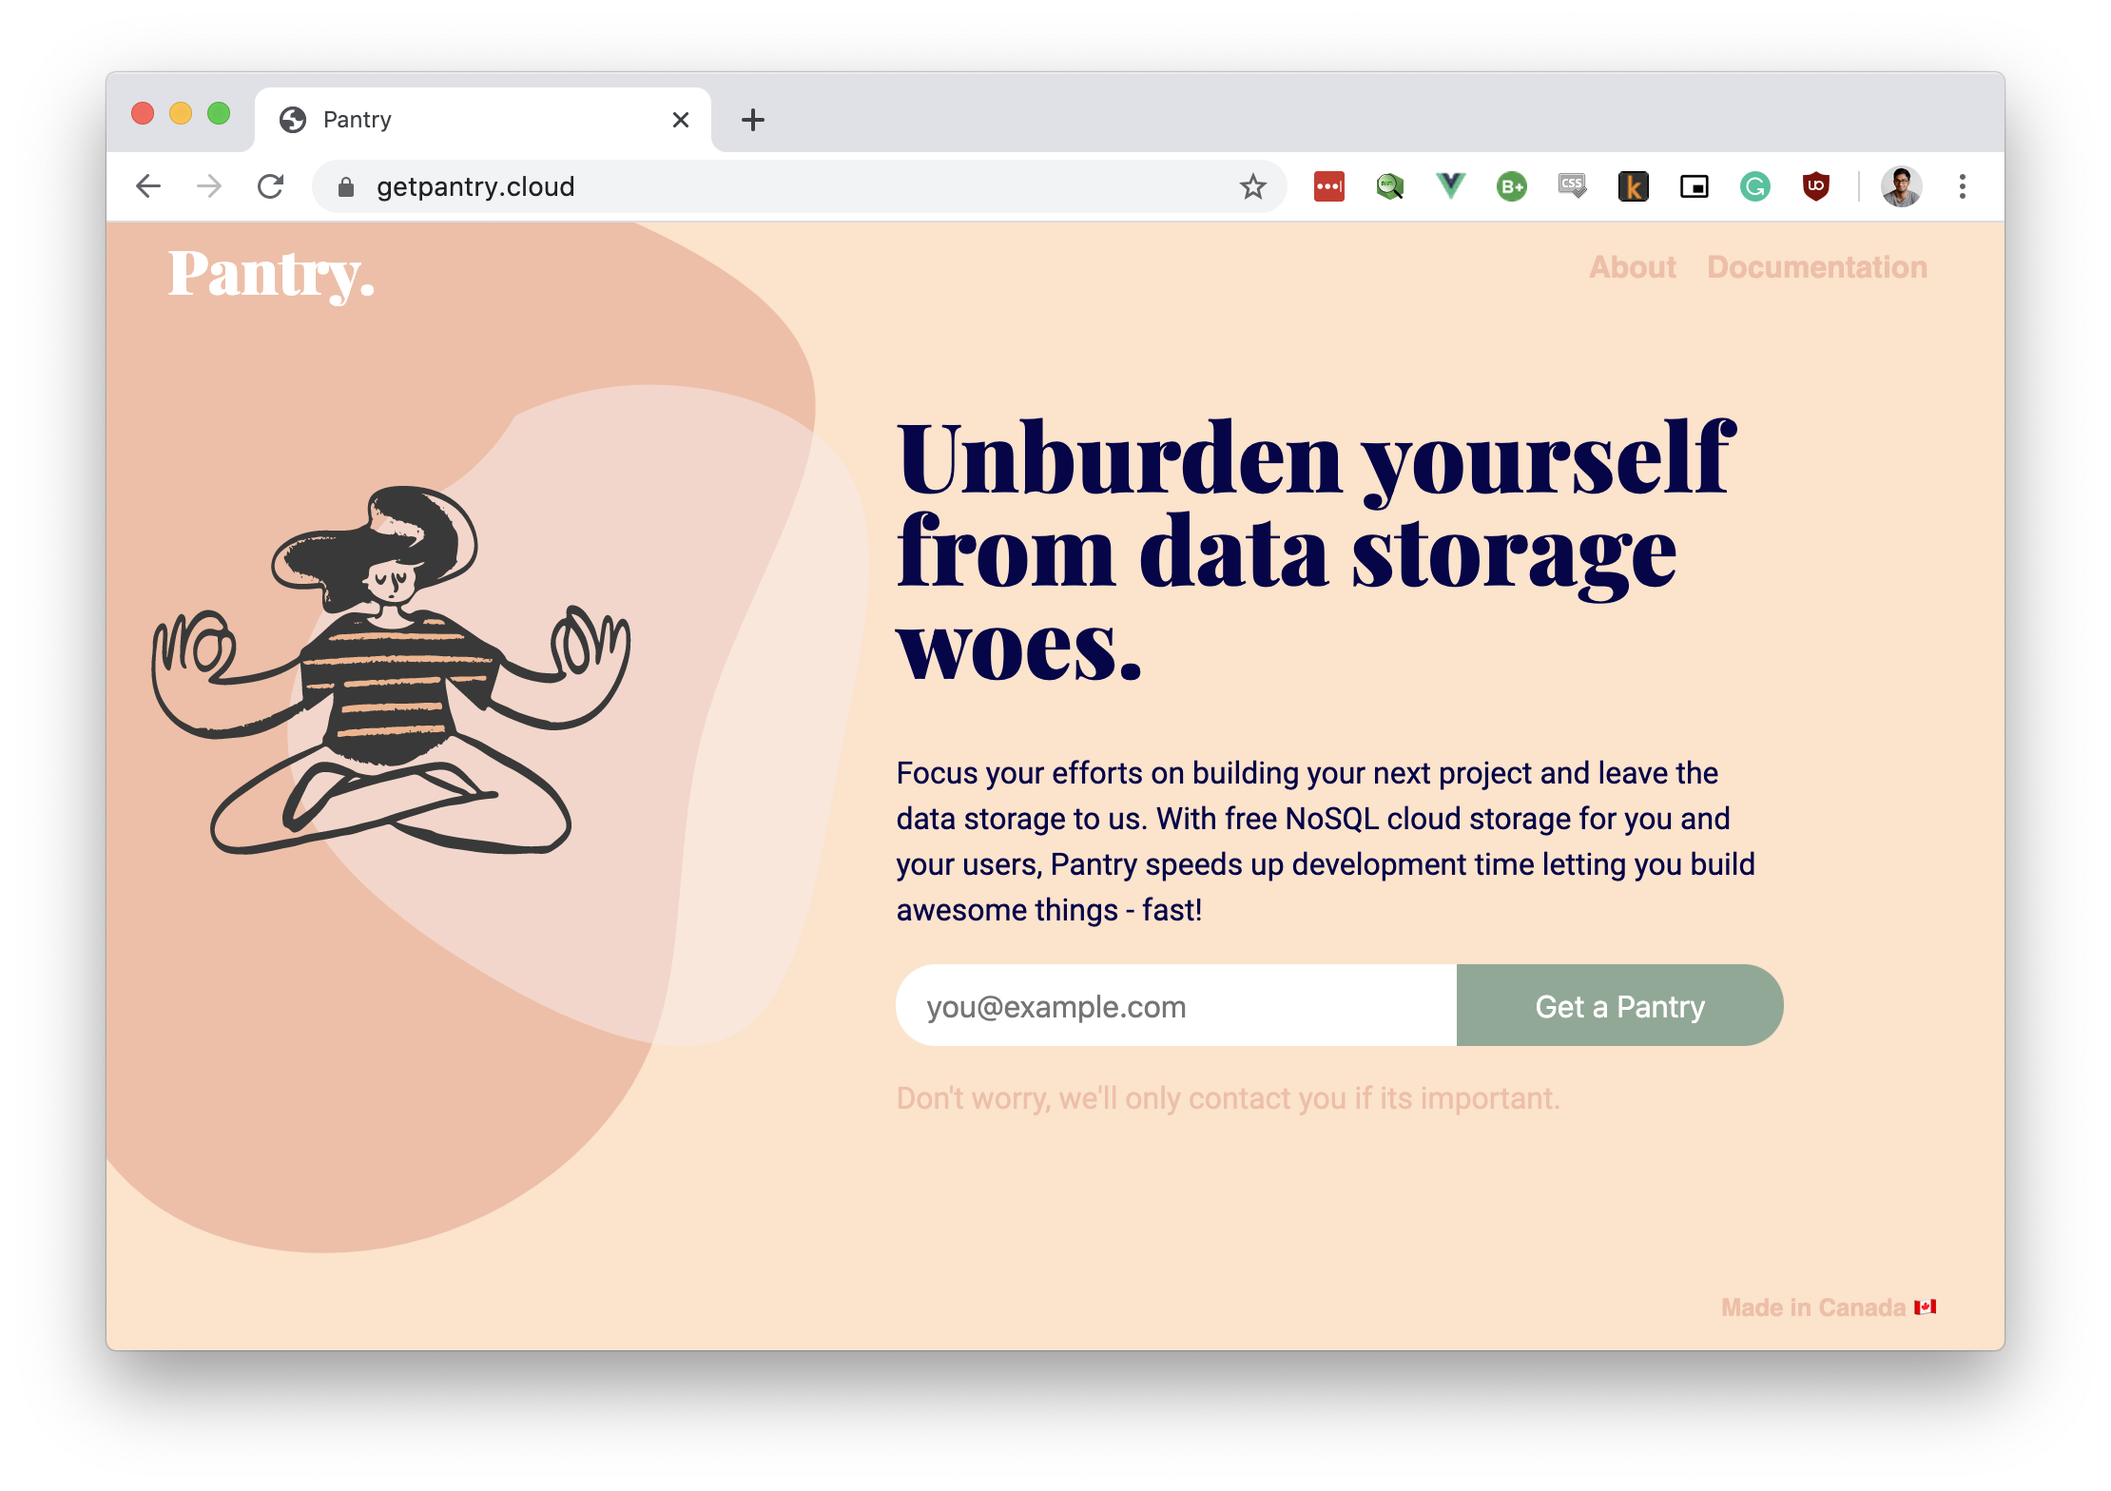
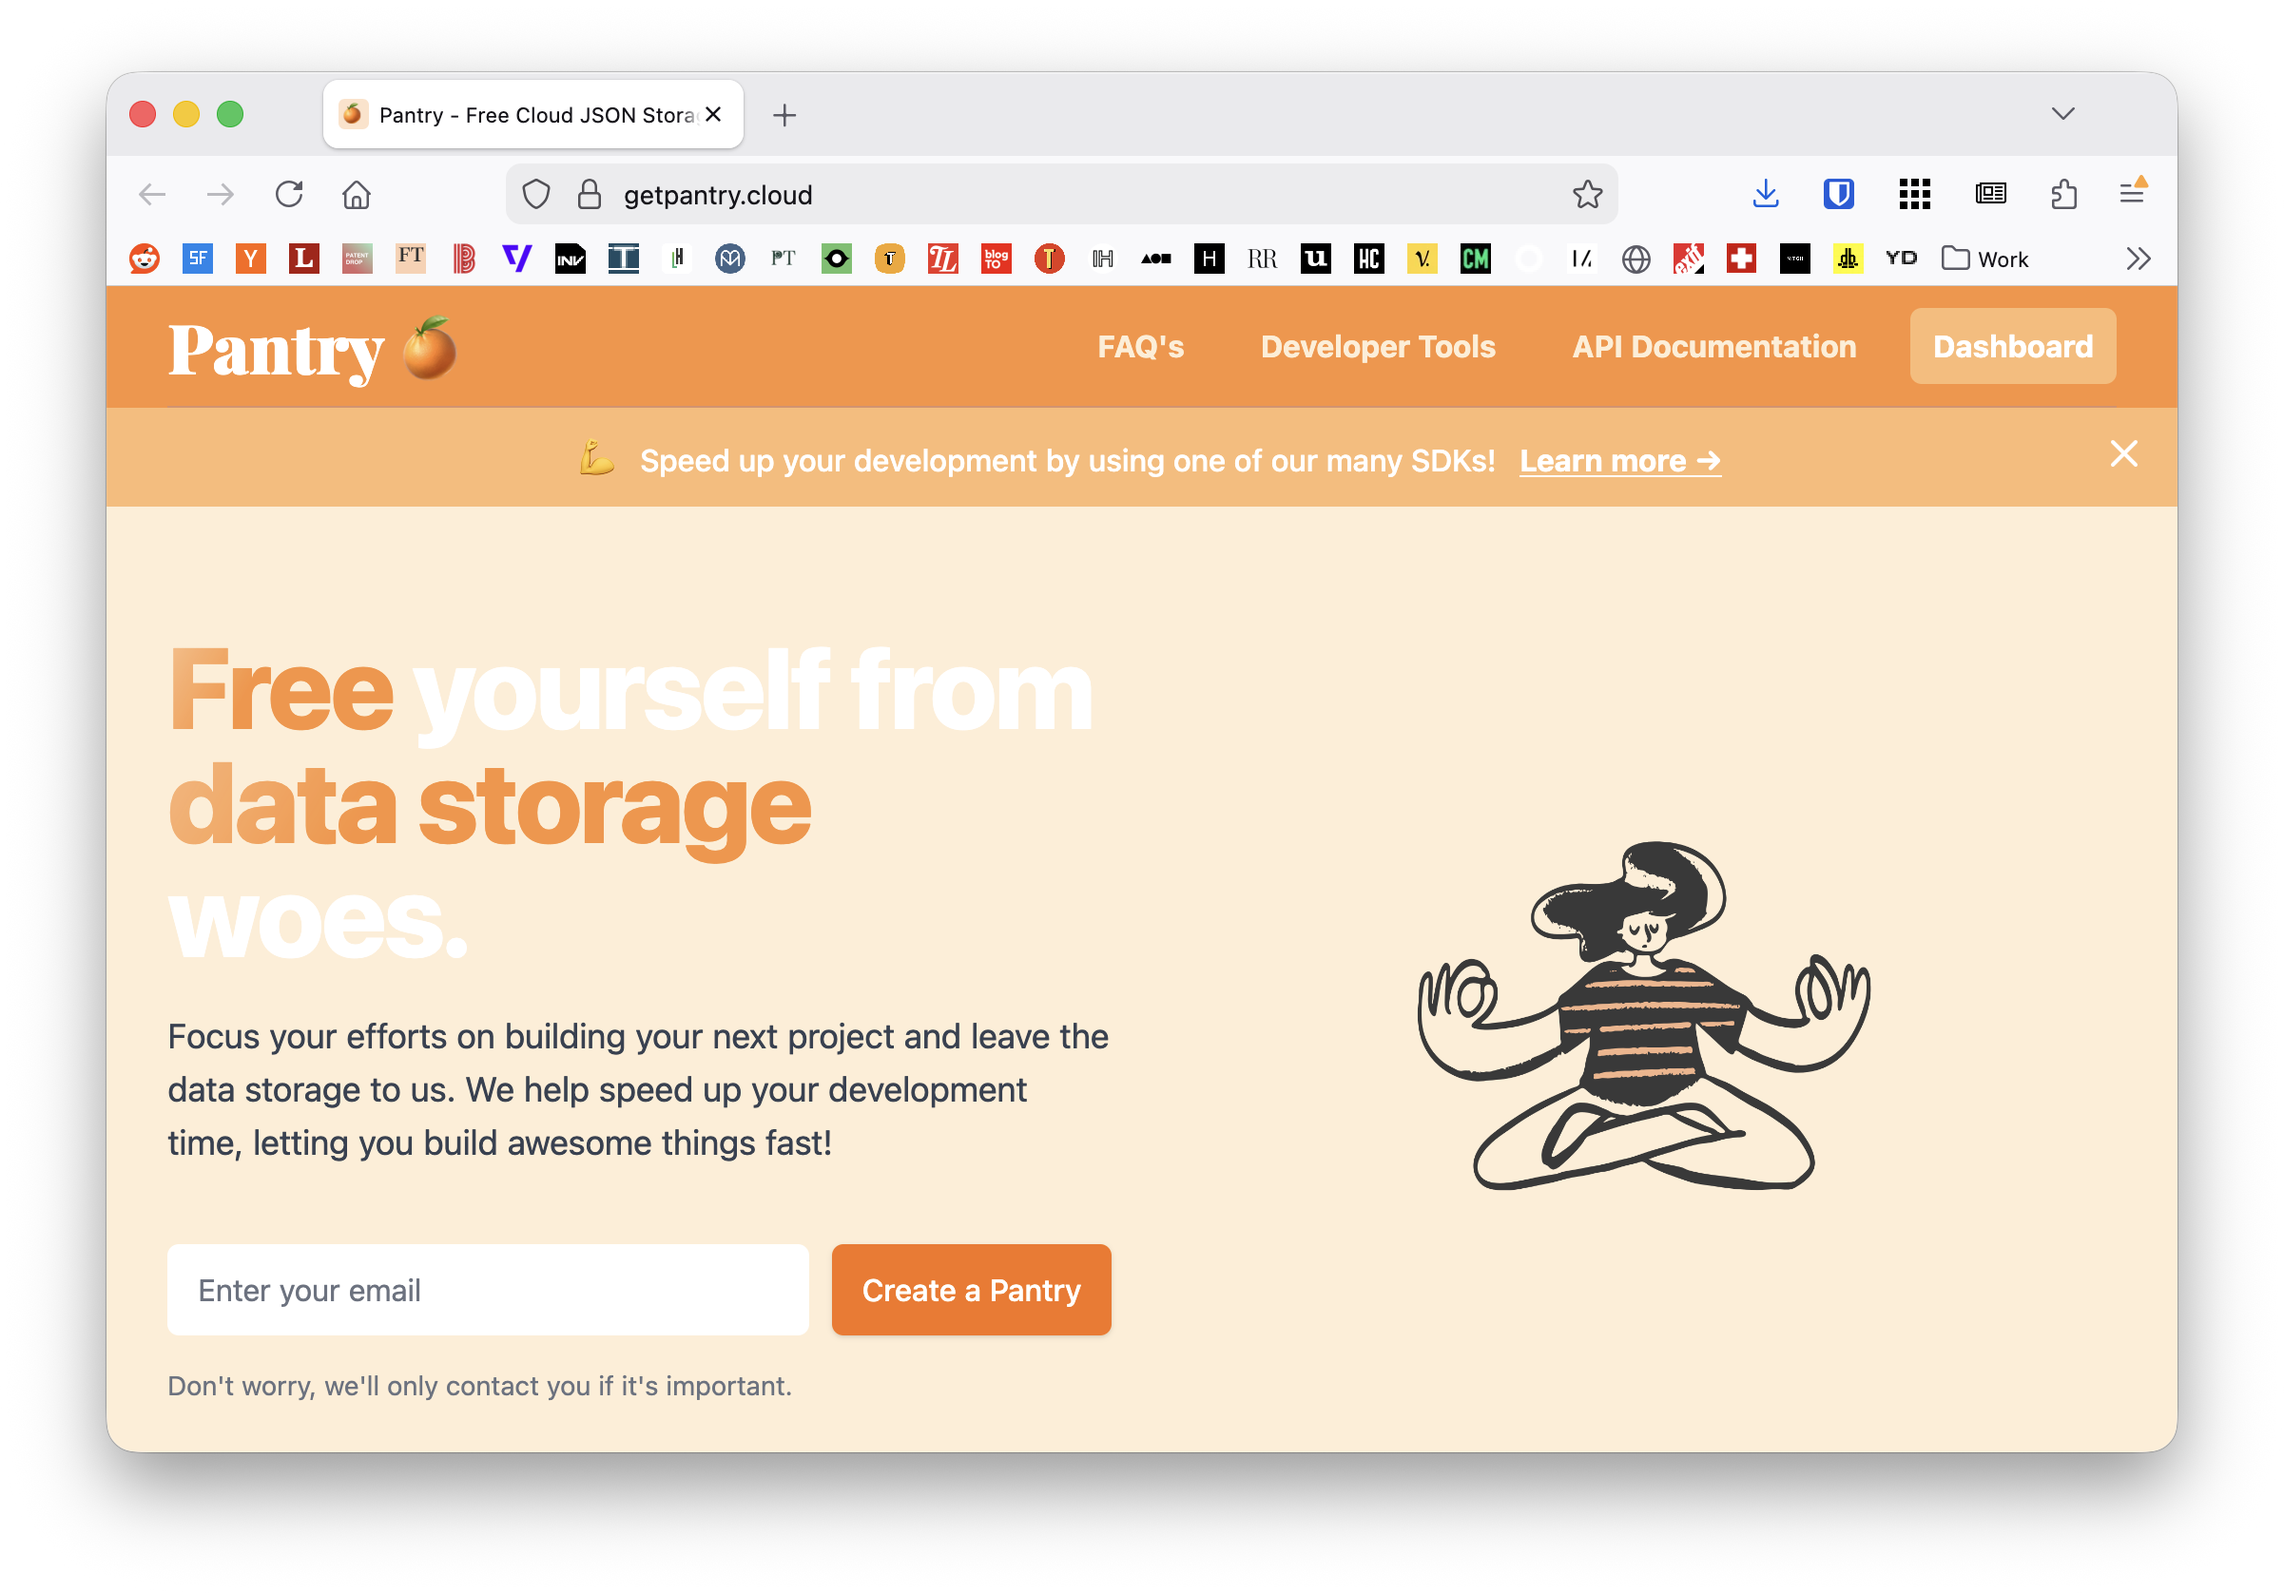
Updated contents

diff --git a/_layouts/default.html b/_layouts/default.html
@@ -28,17 +28,16 @@
     <div class="site">
         <div class="sidebar" id="sidebar">
 
-            <div class="header ">
+            <div class="header">
                 <div class="logoBlocks">
-                    <a href="/">
-                        <div class="hvr-buzz-out">
-                            <div id="logoimage">
-                              <img id="logo" src="/images/logo.png">
-                            </div>
-                        </div>
-                    </a>
+                  <a href="/">
+                    <div id="logoimage">
+                      <img id="logo" src="/images/logo.svg">
+                    </div>
+                  </a>
                 </div>
-                <span class="tagline">Hi, I'm Rohan. <br/>I  am a product focused, software engineer from Toronto.</span>
+                <span class="tagline">Hi, I'm Rohan, <br/>a product-focused
+                  software engineer from Toronto, Canada.</span>
                 <button onclick="javascript:openDialog();" class="btn btn-4">About Me</button>
             </div>
             <div class="footer">
@@ -50,11 +49,6 @@
                   <a target="_blank" href="https://github.com/imRohan" class="footer-link hvr-underline-reveal">
                     <i class="fa fa-github-alt"></i> GitHub
                   </a>
-                  <span class="separator">&bull;</span>
-                  <a target="_blank" href="https://dribbble.com/imRohan" class="footer-link hvr-underline-reveal">
-                    <i class="fa fa-dribbble"></i> Dribbble
-                  </a>
-                </span>
             </div>
             <div class="posts">
                 <ul class="posts-list">
@@ -76,88 +70,70 @@
     <!-- MODAL -->
     <div id="termWindow">
         <div id="rohan-about" class="avgrund-popup">
-            <div id="termHeader" class="dragHandle">
-                <a onclick="javascript:closeDialog();">
-                    <div id="termIcons"></div>
-                </a>
-                <div id="termTitle">1. bash</div>
+            <div id="termHeader">
+              <a onclick="javascript:closeDialog();">
+                <div id="termIcons"></div>
+              </a>
+              <div id="termTitle">1. zsh</div>
             </div>
             <div id="termBody" class="custom-scroll">
-                <p class="termText">
-                    Last updated: Sun May 31 17:29:48 on ttys000
-                    <br/>Rohan-Likhites-MacBook-Pro:~ rohanlikhite$ cd Documents
-                    <br/>Rohan-Likhites-MacBook-Pro:Documents rohanlikhite$ cat myBio.txt
-                    <br/>
-                    <br/>About
+              <p class="termText">
+                Last updated: Sun May 31 17:29:48 on ttys000
+                <br/>Rohan-Likhites-MacBook-Pro:~ rohanlikhite$ cd Documents
+                <br/>Rohan-Likhites-MacBook-Pro:Documents rohanlikhite$ cat myBio.txt
+                <br/>
+                <br/>About
 
-                    <br/>-----/
-                    <br/>> I am a product focused, software engineer from Toronto, Canada.  I have experience designing, building and testing robust microservice enterprise applications for IoT platforms, desktop/mobile applications, and AR/VR experiences, all using modern tech-stacks. I enjoy modern art, Formula One, green tea and play tennis in my spare time. 
-                    <br/>
-                    <br/>Skills
-                    <br/>------/
-                    <br/>> JavaScript + Node, Typescript, Ruby + ROR, Rust, GoLang, GraphQL, RabbitMQ, SocketIo, VueJs, Webpack, Nightwatch, Rspec, Selenium, Capybara, Intern, Jenkins, HTML5, Slim, CSS3, SASS, Bootstrap/Foundation/Chocolate, Source Code Management (GIT + SVN), Bower, Yarn, NPM, Unity3D, Open Frameworks, Processing, MAX MSP, VPT7, Adobe Creative Suite, Autocad, Revit, Oculus Rift, META SpaceGlass.
-                    <br/>
-                    <br/>
-                </p>
-                <p class="termText left">
-                    Other Interests
-                    <br/>---------------/
-                    <br/>-Tennis
-                    <br/>-<a href="/posts/2015/02/12/books/">Reading</a>
-                    <br/>-Formula One
-                    <br/>-Architecture
-                    <br/>-<a href="/posts/2014/06/17/relax/">Music</a>
-                    <br/>-<a href="/posts/2021/03/17/food52/">Cooking</a>
-                </p>
-                <p class="termText right">
-                    Links
-                    <br/>-----/
-                    <br/>Email: <a href="mailto:rlikhite@gmail.com">rlikhite[at]gmail.com</a> 
-                    <br/>Github:
-                    <a target="_blank" href="https://github.com/imRohan">imRohan</a>
-                    <br/>Dribbble: <a target="_blank" href="https://dribbble.com/imRohan">imRohan</a>
-                    <br/>LinkedIn:
-                    <a target="_blank" href="https://www.linkedin.com/pub/rohan-likhite/a6/495/950">rohan-likhite</a> 
-                    <br/>Twitter: <a target="_blank" href="https://twitter.com/RohanLikhite">@rohanlikhite</a>
-                    <br/>Medium: <a target="_blank" href="https://medium.com/@RohanLikhite">@RohanLikhite</a>
-                </p>
-                <p class="termText newRow">
-
-                    <br/>>Press ESC to <a onclick="javascript:closeDialog();">close</a> window
-                    <br/>>Lovingly crafted by Rohan Likhite - 2014
-
-
-                </p>
-
-                <p class="termText linefix">
-                    <br/>Rohan-Likhites-MacBook-Pro:Documents rohanlikhite$
-                </p>
-                <div id="cursor"></div>
-
-            </div>
+                <br/>-----/
+                <br/>>I’m a product-focused software engineer based in
+                Toronto, dedicated to solving complex problems through
+                robust, scalable software. My experience ranges from developing
+                cutting-edge biometric access-control platforms to building
+                systems that deliver freshly cooked meals to families across
+                the country. A firm believer in giving back, I actively
+                contribute to various open-source initiatives. When I’m away
+                from my desk, I’m likely on the tennis court, keeping up
+                with Formula One, or enjoying time with my family.
+                <br/>
+                <br/>Skills
+                <br/>------/
+                <br/>> Languages: Ruby, Rust, Typescript/Javascript, GoLang
+                <br/>> Security: Biometric Auth, OAuth, JWT, OWASP
+                <br/>> Frameworks: Ruby on Rails, Node.js, Vue/React
+                <br/>
+                <br/>
+              </p>
+              <p class="termText left">
+                Other Interests
+                <br/>---------------/
+                <br/>-Tennis
+                <br/>-<a href="/posts/2015/02/12/books/">Reading</a>
+                <br/>-Formula One
+                <br/>-Architecture
+                <br/>-<a href="/posts/2014/06/17/relax/">Music</a>
+                <br/>-<a href="/posts/2021/03/17/food52/">Cooking</a>
+              </p>
+              <p class="termText right">
+                Links
+                <br/>-----/
+                <br/>Email: <a href="mailto:rlikhite@gmail.com">rlikhite[at]gmail.com</a> 
+                <br/>Github:
+                <a target="_blank" href="https://github.com/imRohan">imRohan</a>
+                <br/>LinkedIn:
+                <a target="_blank" href="https://www.linkedin.com/pub/rohan-likhite/a6/495/950">rohan-likhite</a> 
+              </p>
+              <p class="termText newRow">
+                <br/>>Press ESC to <a onclick="javascript:closeDialog();">close</a> window
+              </p>
+              <p class="termText linefix">
+                <br/>Rohan-Likhites-MacBook-Pro:Documents rohanlikhite$
+              </p>
+              <div id="cursor"></div>
+          </div>
         </div>
     </div>
 
     <!-- / MODAL -->
-
-    <!-- ANALYTICS -->
-    <script>
-        (function (i, s, o, g, r, a, m) {
-            i['GoogleAnalyticsObject'] = r;
-            i[r] = i[r] || function () {
-                (i[r].q = i[r].q || []).push(arguments)
-            }, i[r].l = 1 * new Date();
-            a = s.createElement(o),
-            m = s.getElementsByTagName(o)[0];
-            a.async = 1;
-            a.src = g;
-            m.parentNode.insertBefore(a, m)
-        })(window, document, 'script', '//www.google-analytics.com/analytics.js', 'ga');
-
-        ga('create', 'UA-59458364-1', 'auto');
-        ga('send', 'pageview');
-    </script>
-    <!-- / ANALYTICS -->
 
     <!-- JS -->  
     <script type='text/javascript' async src='https://code.jquery.com/jquery-1.11.2.min.js'></script>

diff --git a/404.html b/404.html
@@ -5,81 +5,48 @@ permalink: /404.html
 
 <!DOCTYPE html>
 <html lang="en">
+  <head>
+      <meta charset="utf-8">
+      <title>Rohan - 404</title>
+      <meta name="viewport" content="width=device-width, initial-scale=1">
 
-<head>
-    <meta charset="utf-8">
-    <title>Rohan - 404</title>
-    <meta name="viewport" content="width=device-width, initial-scale=1">
+      <!-- Custom CSS -->
+      <link rel="stylesheet" href="/css/buttons.css">
+      <link rel="stylesheet" href="/css/main.css">
 
-    <!-- Custom CSS -->
-    <link rel="stylesheet" href="/css/buttons.css">
-    <link rel="stylesheet" href="/css/main.css">
-
-    <!-- Custom fonts -->
-    <link href='http://fonts.googleapis.com/css?family=Raleway:300,400,700' rel='stylesheet' type='text/css'>
-    <style type="text/css">
-        body {
[1 lines of base64/hex data omitted]
-        }
-        .error-text {
-            padding: 40px 15px;
-            text-align: center;
-        }
-        .error-actions {
-            margin-top: 15px;
-            margin-bottom: 15px;
-        }
-        .error-actions .btn {
-            margin-right: 10px;
-        }
-    </style>
-    <script src="//code.jquery.com/jquery-1.10.2.min.js"></script>
-    <script src="//netdna.bootstrapcdn.com/bootstrap/3.0.0/js/bootstrap.min.js"></script>
-
-</head>
-
-<body>
-
- 
+      <!-- Custom fonts -->
+      <link href='http://fonts.googleapis.com/css?family=Raleway:300,400,700' rel='stylesheet' type='text/css'>
+      <style type="text/css">
+          body {
[1 lines of base64/hex data omitted]
+          }
+          .error-text {
+              padding: 40px 15px;
+              text-align: center;
+          }
+          .error-actions {
+              margin-top: 15px;
+              margin-bottom: 15px;
+          }
+          .error-actions .btn {
+              margin-right: 10px;
+          }
+      </style>
+      <script src="//code.jquery.com/jquery-1.10.2.min.js"></script>
+      <script src="//netdna.bootstrapcdn.com/bootstrap/3.0.0/js/bootstrap.min.js"></script>
+  </head>
+  <body>
     <div class="centerText">
         <div id="jackieImage"></div>
         <div class="contentText">
-       
-        <h1>
-                   Merp.</h1>
-        <h2>
-                    Looks like something's wrong.</h2>
-            
-        <div class="error-details">
-            
+          <h1>Merp.</h1>
+          <h2>Looks like something's wrong.</h2>
+          <div class="error-details">
             <a href="/">
-    
-    <div class="myButton">
-        <div class="button_base b07_3d_double_roll">
-            <div>Back Home</div>
-            <div>Back Home</div>
-            <div>Back Home</div>
-            <div>Back Home</div>
-
+              Back Home
+            </a>
+          </div>
         </div>
-
     </div>
-    </a>
-        </div>
-
-        </div>
-        
-
-    </div>
-
-
-
-
-    
-
-
-    <script type="text/javascript">
-    </script>
-</body>
-
+  </body>
 </html>

diff --git a/css/main.css b/css/main.css
@@ -52,7 +52,7 @@ a {
 }
 
 .post a {
-    background: #ead750;
+    background: #74df80;
     padding: 0 0.5em;
 }
 
@@ -79,13 +79,11 @@ a:hover {
 /*****************************************************************************/
 
 #logo {
-    max-width: 128px;
-    margin-bottom: 10px;
+    max-width: 200px;
 }
 
 #logoimage {
     z-index: 999;
-    margin-bottom: 10px;
 }
 
 .posts a {
@@ -295,6 +293,7 @@ code {
 .header {
     text-align: center;
     padding-top: 2.5em;
+    padding-bottom: 1em;
     font-size: 1.1em;
 }
 
@@ -429,7 +428,7 @@ code {
     margin-right: 10px;
 }
 .termText > a {
-  color: #ead750;;
+  color: #74df80;;
 }
 
 .left {
@@ -538,14 +537,14 @@ code {
 
 .btn-4 {
     border-radius: 50px;
-    border: 2px solid #ead750;
+    border: 2px solid #74df80;
     color: #000000;
-    background: #ead750;
+    background: #74df80;
     overflow: hidden;
 }
 
 .btn-4:hover {
-  border-color: #dec132;  
+  border-color: #78b67f;  
 }
 
 .btn-4:before {

diff --git a/css/hover.css b/css/hover.css
@@ -2625,7 +2625,7 @@
   left: 0;
   right: 0;
   bottom: 0;
-  background: #ead750;
+  background: #74df80;;
   height: 2px;
   -webkit-transform: translateY(2px);
   transform: translateY(2px);
